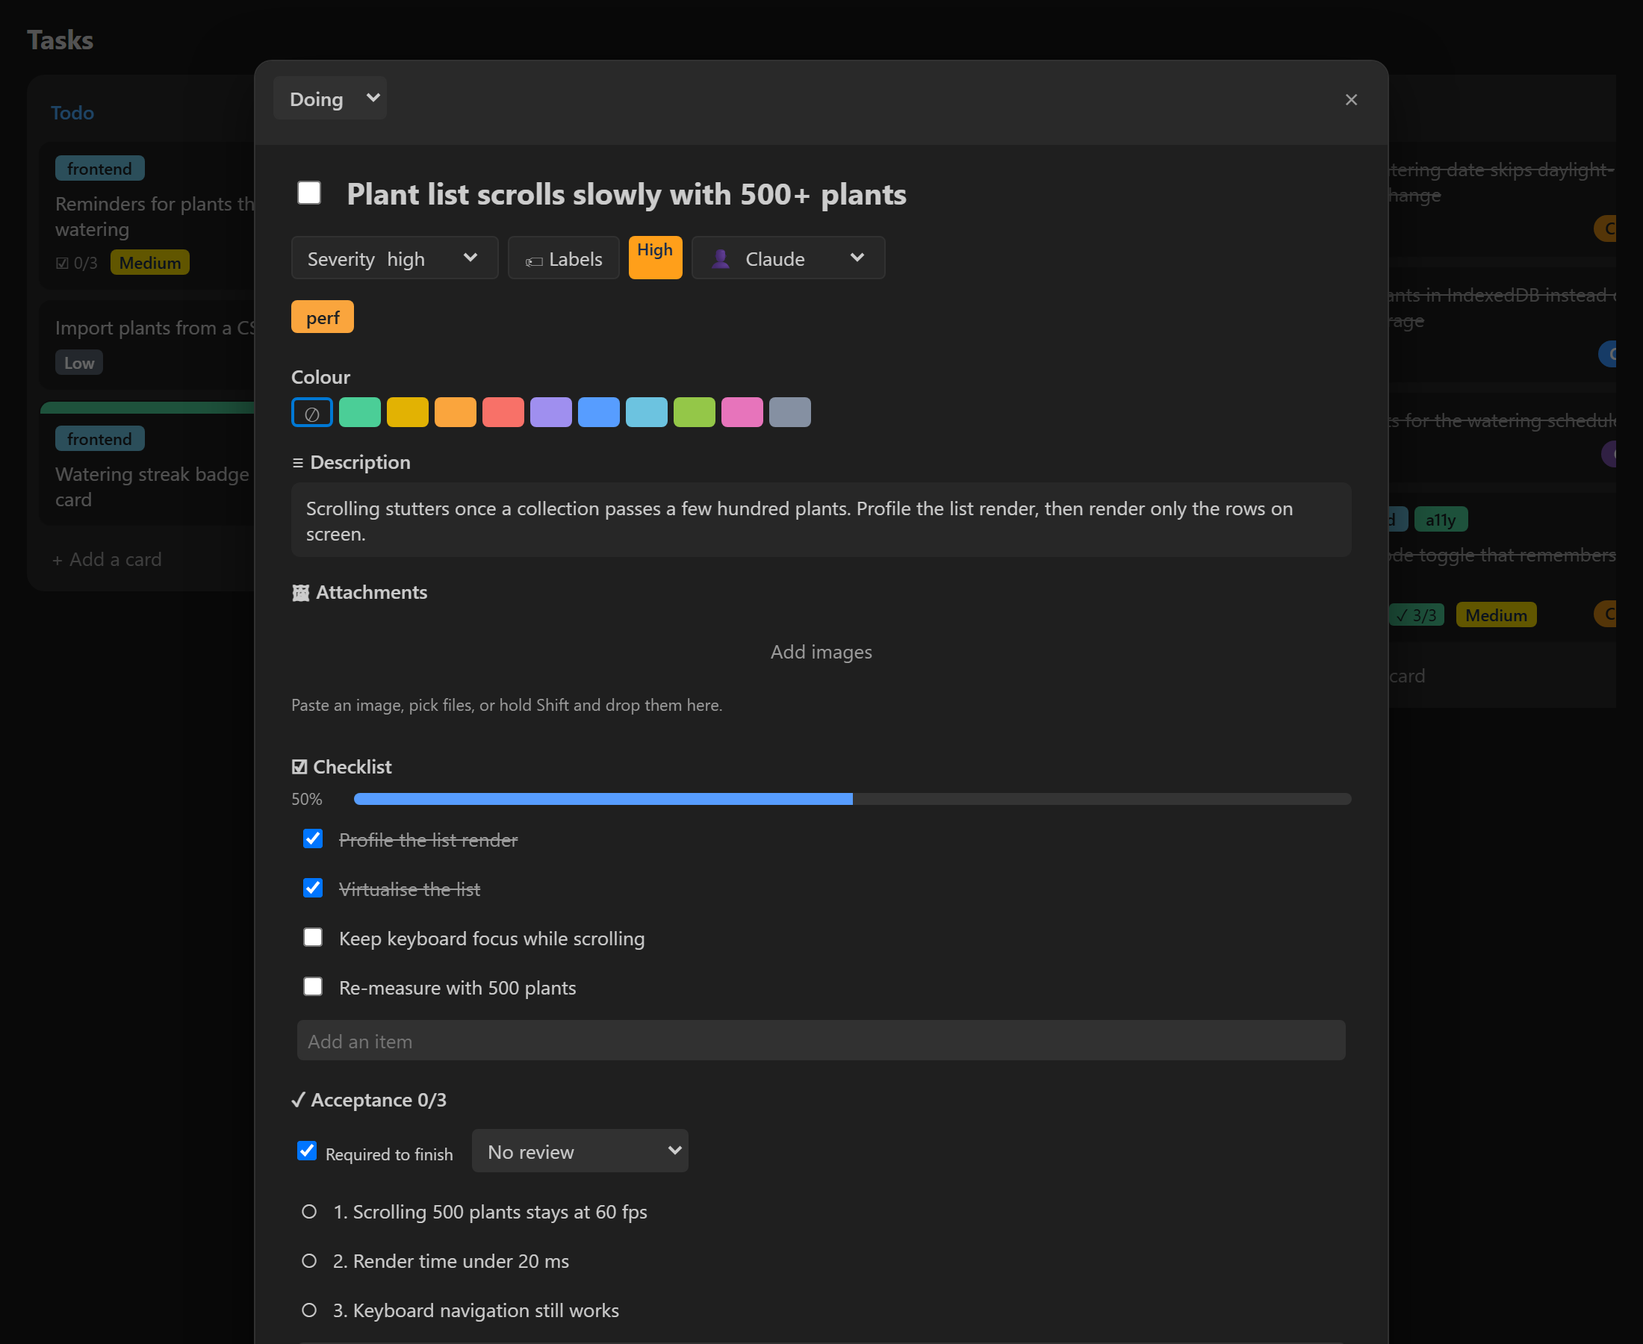
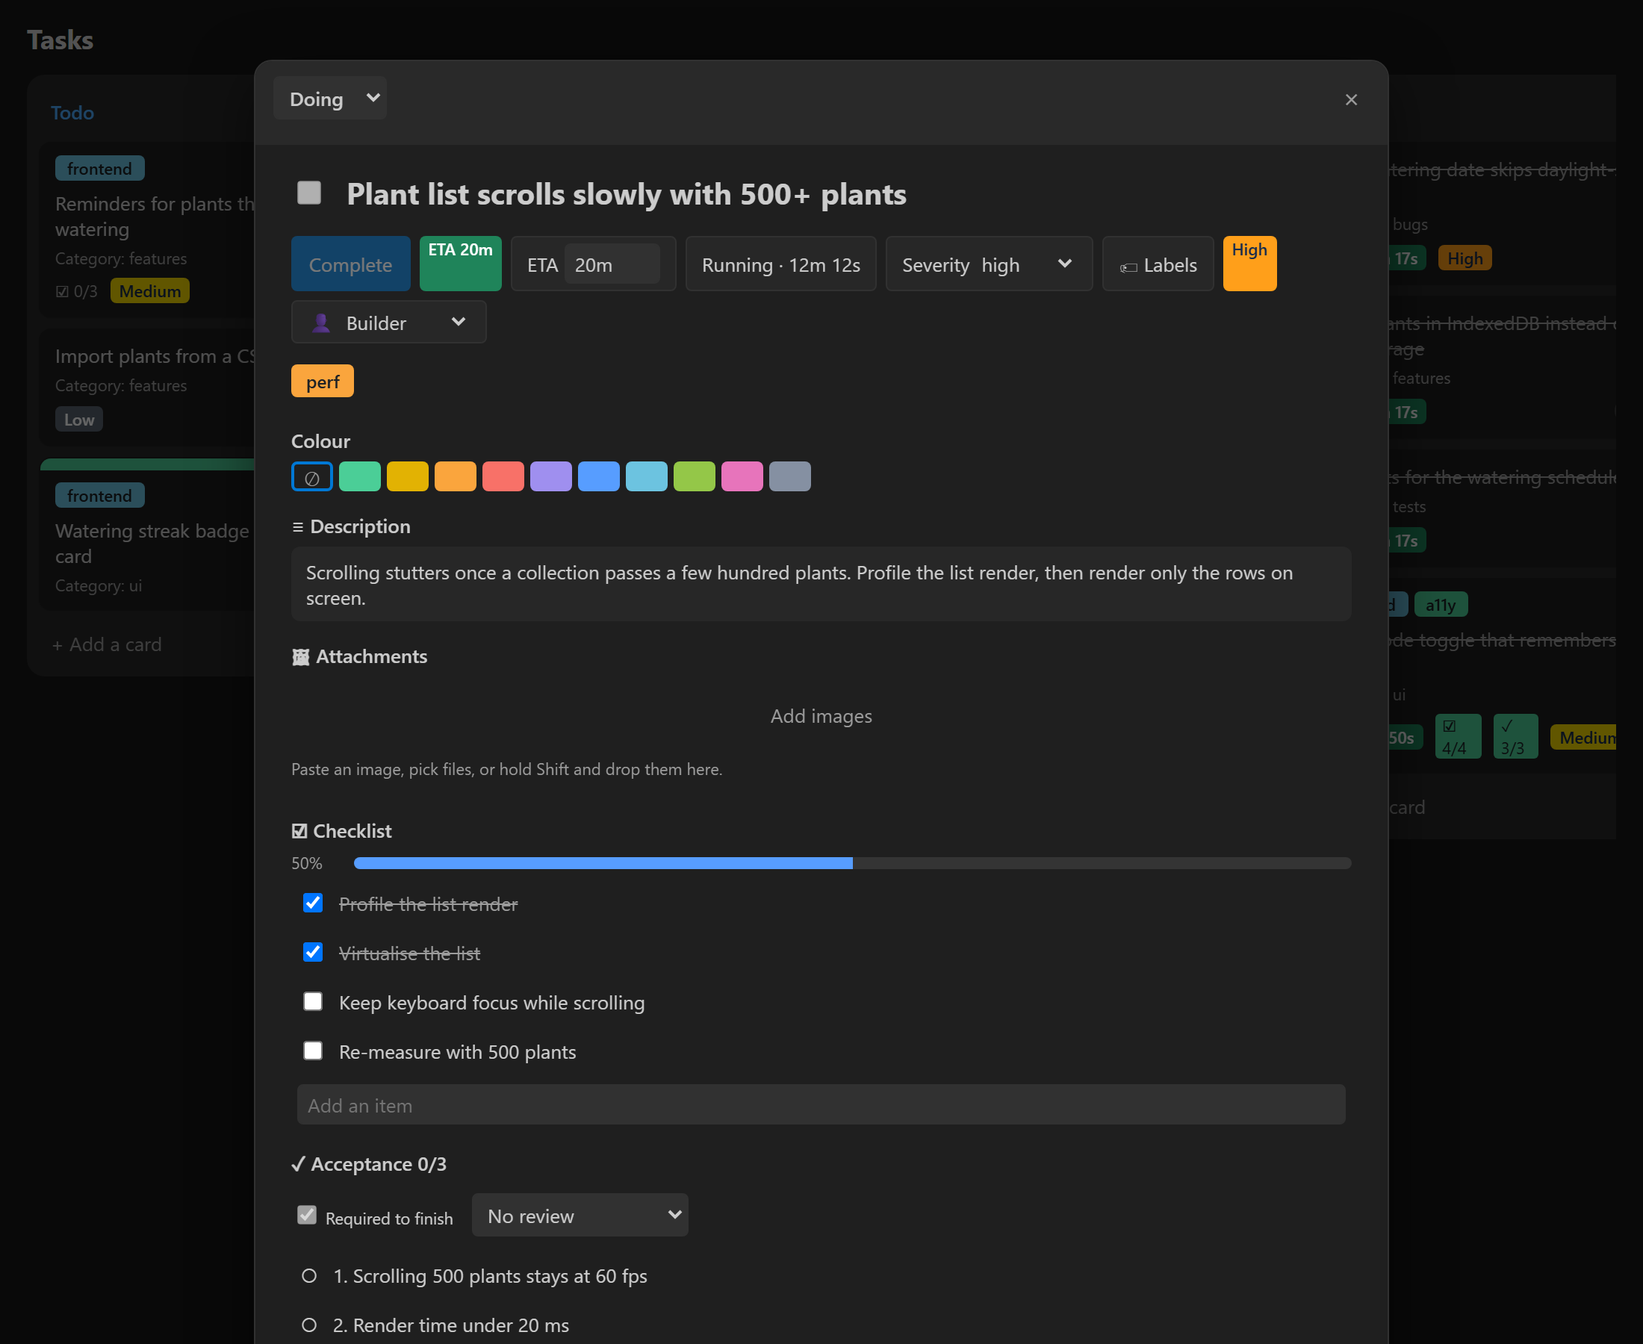
Refresh product guide and screenshots for Pandora 0.21.1

diff --git a/README.md b/README.md
@@ -1,168 +1,221 @@
 <p align="center">
-  <img src="docs/images/hero.svg" alt="Pandora coordinates Agent A and Agent B, whose work joins into one output." width="1280">
+  <img src="docs/images/hero.svg" alt="Pandora workflow: input branches to two agents and their work joins into one output." width="1280">
 </p>
 
 # Pandora
 
-**Run Claude Code and Codex together in VS Code.**
+**Run coding agents in VS Code with the engine and models you choose.**
 
-Pandora gives your coding agents a shared place to talk, organise work and keep project notes. You can ask one agent to write a feature and another to review it, follow their progress, and inspect the changes without passing context between separate chats.
+Pandora brings agent chats, tasks, workflows, project notes and documentation into one place. Work with one agent or add a team, follow their progress, inspect changes and keep shared context with your project.
 
-It uses the agent tools you're already signed in to. You don't need separate model API keys for this setup; your providers' usage limits and billing still apply.
+Codex or Claude alone is enough. Pandora uses the agent tools you're already signed in to, without separate model API keys for this setup. Your providers' usage limits and billing still apply.
 
-> **In development · Not publicly available yet.** This repository is a preview of Pandora. The setup instructions below are for testers who already have a build.
+> **In development · Not publicly available yet.** This repository previews Pandora. The setup instructions below are for testers who already have a build.
 
-[Chat](#team-chat) · [Tasks](#tasks-and-code-review) · [Workflows](#workflows) · [Knowledge](#project-knowledge) · [Usage and controls](#usage-and-controls) · [Tester setup](#tester-setup) · [Feedback](#feedback)
+[Chat](#team-chat) · [Agents](#project-agents) · [Tasks](#tasks-and-code-review) · [Workflows](#workflows) · [Docs](#project-documentation) · [Knowledge](#project-knowledge) · [Usage](#usage-and-controls) · [Settings](#settings-and-updates) · [Tester setup](#tester-setup) · [Feedback](#feedback)
 
-[![Pandora's task board, showing task owners and work moving through Todo, Doing, Review and Done.](docs/images/tasks.png)](docs/images/tasks.png)
+[![Pandora's task board, with named owners, categories and tasks in Todo, Doing, Review and Done.](docs/images/tasks.png)](docs/images/tasks.png)
 
 ## Team chat
 
-Talk to `@claude`, `@codex` or `@all` in the same conversation. Messages without a mention go to Pandora, the coordinator. Agents can share updates and hand work to each other, while you follow along, answer questions or add a follow-up as they work.
+Messages go directly to the agent you select, which handles the work itself. New projects start with **Pandora**. Select another project agent, mention it by name or use `@all` to address the active team. Coordination between agents is available when you run a workflow.
 
 ```text
-@all add a dark mode toggle, then review the changes and run the tests
+Add a dark mode toggle, then run the tests.
 ```
 
-[![An expanded Pandora chat view with agent replies, a question with clickable answers and live test output.](docs/images/chat.png)](docs/images/chat.png)
+[![Pandora chat showing named agents, task links, clickable answers and live command output.](docs/images/chat.png)](docs/images/chat.png)
 
 <details>
 <summary><strong>Chat tools</strong></summary>
 
 - Keep separate conversations with their own agent sessions. Rename, archive or delete chats as needed.
-- Mention workspace files with autocomplete, open file links from replies, and attach files or images. Agents can send screenshots back.
-- Answer questions with clickable choices. Edit or delete messages you've sent, or send a follow-up during an active turn.
-- Choose each agent's model, effort level and access for each chat: **Read only**, **Edit** or **Shell**.
-- Expand a turn to see its steps, command output, duration and exit status. Open changed files as before/after diffs.
-- Undo a turn's changes, with a warning if a file has changed again. Inspect logs and retry failed turns.
-- Collapse long exchanges between agents while keeping questions and final results visible.
+- Type `@@` for workspace file autocomplete. Use `@` for project agents, task groups and enabled plugin shortcuts.
+- Open file links from replies and attach files, images or pasted text. Agents can send screenshots back.
+- Answer questions with clickable choices, edit or delete messages you've sent, and add follow-ups during active work.
+- Choose models and effort levels, and set each agent's access for the current chat.
+- Expand a turn to see steps, commands, output, duration, exit status and changed-file diffs.
+- Open the sub-agent menu to see each helper's task, state, activity and result.
+- Inspect logs, retry failed turns and undo recorded file changes when their snapshots can be verified.
+- Collapse long exchanges while keeping questions and results visible.
 
 [View an expanded turn](docs/images/turn.png) · [View the chat list](docs/images/chats.png)
 
 </details>
 
+## Project agents
+
+Open **Work** to manage the agents in this project. **+** adds an agent with its own name, icon, engine and model. Several agents can use the same engine while keeping separate identities, chats, settings and task assignments.
+
+Pandora stays in every project: its name is fixed and it cannot be retired. Its **Edit** control provides one model dropdown with Codex and Claude choices. Custom agents have full editing controls and can be retired or restored. Retirement preserves their history and unfinished assignments.
+
+[![The Work page with project agents, their engines and models, pause controls and the add-agent button.](docs/images/work.png)](docs/images/work.png)
+
+<details>
+<summary><strong>Agent controls</strong></summary>
+
+- Pause new turns, resume queued work or stop an agent.
+- Stop cancels current and queued work and clears saved sessions. A manually paused agent stays paused.
+- Set per-chat access from each agent's access dropdown. A change during a turn applies from the next turn.
+- Inspect claimed files, coordination health and plugin status.
+- Use one supported engine throughout the project, including new default workflows.
+
+</details>
+
 ## Tasks and code review
 
-Open **Tasks** beside **Chats** and **Work** to use the full task board. Give work a clear brief, an owner and a checklist. Add dependencies and acceptance criteria so everyone can see what needs to happen before a task is done. Starting an assigned task sends the brief to its agent and moves the card to **Doing**.
+Open **Tasks** beside **Chats** and **Work** for the full task board. Give work a brief, an owner, a checklist, dependencies and acceptance criteria. Assignment alone does not start an agent. **Start** begins the timer and sends an assigned agent its brief.
 
-You can review changed files in VS Code, leave line comments for the agent and open a GitHub pull request from the task. Merging stays with you.
+Expanded cards show a live clock. TTC is calculated from recorded start and finish times, down to the second, and cannot be edited. ETA stays editable. Moving a task, handing it off or reloading keeps its timer running.
+
+Started tasks can complete only after their checklist is finished and every acceptance criterion has passing evidence. Review changed files in VS Code, leave line comments for the agent and open a GitHub pull request from the task. Merging stays with you.
+
+[![An expanded task with timing controls, a checklist, acceptance criteria and review tools.](docs/images/task.png)](docs/images/task.png)
 
 <details>
 <summary><strong>Task details and review tools</strong></summary>
 
-[![A Pandora task with a description, checklist, acceptance criteria and review tools.](docs/images/task.png)](docs/images/task.png)
-
 - Start with **Todo**, **Doing** and **Done**, or add columns such as **Review**. Reorder and recolour the board.
-- Add owners, categories, tags, severity, images, checklists and dependencies to cards.
-- Record passing evidence for acceptance criteria before an agent finishes a task.
-- Create a task from chat: `/task @codex write tests for the parser`.
+- Add owners, categories, tags, severity, images, checklists and dependencies.
+- Edit subtask titles and descriptions, with saved changes reflected on the board.
+- Create a task without starting it using `/task write tests for the parser`, or use `/task @pandora write tests for the parser` to hand it to an agent.
 - Use mentions such as `@Todo` or `@bugs` to reach agents working on a group of tasks.
 - Give a task its own Git branch, or use an optional worktree and port.
 - Include the task's criteria and checks when opening a pull request. Follow its status from the card.
-- Archive finished tasks so agents can still look up the work later.
+- Archive finished tasks so agents can look up the work later.
 
 </details>
 
 ## Workflows
 
-Open **Flows** from the panel title bar to see your workflows and recent runs. Save a process you use often as a workflow. Connect steps for planning, coding, review and testing, then choose the agent and role for each one. Work can run in parallel, join back together and pause when it needs your input.
+Open **More → Flows** to see workflows and recent runs, then open the editor to change a workflow. Connect steps for planning, implementation, review and testing. Choose a project agent and role for each step; branches can run in parallel, join together and pause for your input.
 
-[![The workflow editor showing Studio Session: a coordinator, three parallel coders, a continuity checker and a tester.](docs/images/editor.png)](docs/images/editor.png)
+New default workflows use the project's Pandora agent, so you can run them with one supported engine. Assign different project agents when you want separate roles or models.
+
+[![The workflow editor with connected planning, implementation, review and test steps and a step inspector.](docs/images/editor.png)](docs/images/editor.png)
 
 Five workflows are included:
 
 | Workflow | What it does |
 | --- | --- |
-| **Studio Session** | Plans a feature, splits implementation across agents, checks that the changes fit together and runs tests. |
+| **Studio Session** | Plans a feature, splits implementation into parallel work, checks that the changes fit together and runs tests. |
 | **Bug Fix** | Reproduces a problem, fixes the cause and checks the result. |
 | **Optimize** | Measures a baseline, makes changes and measures again. |
-| **Council** | Brings several models into a discussion and checks decisions with you. |
+| **Council** | Uses discussion and review roles to develop a plan and check decisions with you. |
 | **Update Knowledge** | Creates or refreshes the project's shared notes. |
 
 <details>
 <summary><strong>Workflow editor and controls</strong></summary>
 
-- Drag steps into place and connect their outcomes. A **Join** step waits for parallel branches to finish.
-- Set the agent, role, model, effort level and permissions for each step.
-- Delegate a focused job to a helper model.
-- Limit steps, loops and concurrent turns. Token budgets are optional.
-- Start a workflow from the editor, the **Flows** title-bar button or chat: `/run studio add OAuth login`.
+- Drag steps into place and connect their outcomes. A **Join** step waits for parallel branches.
+- Set the project agent, role, model, effort level and permissions for each step.
+- Delegate a focused job to a helper.
+- Limit steps, loops and concurrent turns, with optional token budgets.
+- Start a workflow from the editor or chat: `/run studio add OAuth login`.
 
 [View workflows and recent runs](docs/images/flows.png)
 
 </details>
 
+## Project documentation
+
+Open **More → Docs** to browse project guides and references. Search or navigate nested pages, follow source links, use the page outline and copy syntax-highlighted code.
+
+When you ask an agent to add or maintain documentation, it proposes a draft. Review the changes and accept that exact revision to publish it. Published pages remain available while drafts change.
+
+[![Project documentation with Drafts and Published navigation, a page reader and highlighted code.](docs/images/docs.png)](docs/images/docs.png)
+
+<details>
+<summary><strong>Documentation tools</strong></summary>
+
+- See pending drafts and their count as they arrive.
+- Edit drafts, check source references and links, inspect history, and archive or restore pages.
+- Keep draft review separate from the published version.
+- Open documentation with `/docs`, or request work with `/docs @pandora document the storage module`.
+- Keep human-facing documentation separate from the agents' project knowledge.
+
+</details>
+
 ## Project knowledge
 
-Decisions and findings shouldn't disappear into an old chat. Pandora keeps shared notes in `.pandora/knowledge`, where agents can find what has already been agreed, read the relevant context and update it as the project changes.
+Pandora keeps shared decisions, plans and findings in `.pandora/knowledge`. Agents can search what has already been agreed, read the relevant context and update existing notes as the project changes.
 
-The notes are Markdown files you can read, edit and commit with your code. The graph lets you browse their connections and the source files they refer to.
+Open **More → Knowledge** for a searchable, grouped overview. Select a note to see its direct connections or read it in the sidebar. The notes are Markdown files you can edit and commit with your code.
 
-[![Pandora's knowledge graph linking a project overview, plans, architectural notes and findings.](docs/images/graph.png)](docs/images/graph.png)
+[![The Knowledge view with project notes grouped by type, search and referenced-code controls.](docs/images/graph.png)](docs/images/graph.png)
 
 <details>
 <summary><strong>Working with project notes</strong></summary>
 
 - Keep decisions, plans, findings and how-tos together across conversations.
 - Give agents a compact index and tools to find, read and update existing notes.
-- Use coordination rules and edit hooks to keep new documentation in the shared knowledge folder.
-- Search the graph, filter by note type, show referenced code files and open notes to read them.
+- Search notes, filter their types and inspect referenced source files.
+- Follow direct connections from a selected note, with navigation and scroll preserved.
 - Commit the notes so they stay with the project.
 
 </details>
 
 ## Usage and controls
 
-The stats view shows where time and tokens are going. Compare agents, roles, models and effort levels, or look at individual runs to find slow commands and failed work.
+Open **More → Stats** to compare time and token use across agents, roles, models and effort levels. Inspect individual runs, slow commands and failed work.
 
-The **Work** tab shows who's active and which files they've claimed. You can pause, resume or stop agents there, or stop an active turn directly from chat.
+Plugin statistics show calls, measured duration, outcomes and linked-turn token totals by plugin, action and agent. Manual and polling activity is identified separately.
 
-[![Pandora's stats dashboard showing token trends, agent time, role efficiency, commands and recent runs.](docs/images/stats.png)](docs/images/stats.png)
+[![The Stats view with token trends, agent and role comparisons, command timings, runs and plugin activity.](docs/images/stats.png)](docs/images/stats.png)
 
 <details>
 <summary><strong>Usage tracking and budgets</strong></summary>
 
 - Track turns, fresh and cached input, output tokens and elapsed time.
-- Compare success rates and average token use by agent, role, model and effort level.
-- Separate command time, model time and other work. Inspect slow commands and recent runs.
+- Compare success rates and average usage by agent, role, model and effort level.
+- Separate command time, model time and other work.
 - Set optional token budgets for tasks and workflows.
 
-Missing usage is shown as **unknown**. An active turn can exceed its token budget before further work pauses, so budgets aren't hard spending caps. Token totals describe usage, not a dollar invoice.
+Missing usage is shown as **unknown**. An active turn can exceed its token budget before further work pauses, so budgets are not hard spending caps. Token totals describe usage, not a dollar invoice.
 
 </details>
 
 <details>
 <summary><strong>Coordination, permissions and recovery</strong></summary>
 
-Pandora runs the agent CLIs in your workspace and gives them shared messages, tasks, file claims and notes. Claims and edit guards help agents avoid conflicting changes; build locks prevent overlapping builds in the same build tree.
+Pandora runs agent CLIs in your workspace with shared messages, tasks, file claims and notes. Claims and edit guards help agents avoid conflicting changes; build locks prevent overlapping builds in the same build tree.
 
-- **Permissions:** choose access per chat. Codex uses its workspace sandbox; Claude uses a configured tool allowlist.
-- **Run controls:** pause, resume or stop agents. Loop guards pause repeated exchanges between agents, and timeouts limit stalled work.
+- **Permissions:** choose access per chat. Codex uses its configured sandbox; Claude uses a configured tool allowlist.
+- **Run controls:** pause, resume or stop agents. Loop guards pause repeated exchanges, and timeouts limit stalled work.
 - **Health checks:** inspect hooks, commands, the runner, waiting messages and locks on demand. Repairs run only when you choose them.
-- **Recovery:** the board is backed up daily. Export and restore are also available.
-- **Project files:** `.pandora/` holds shared configuration and knowledge. Chats, tasks and runtime state are stored separately from your source files.
-
-[![The Work tab showing agent status, tasks, health checks and claimed files.](docs/images/work.png)](docs/images/work.png)
+- **Plugins:** review tools and access before enabling a plugin. Changed packages need fresh approval; licence acceptance stays with the user.
+- **Recovery:** automatic daily backups, export and restore keep the board recoverable.
+- **Project files:** `.pandora/` holds shared configuration, notes and documentation. Chats, tasks and runtime state are stored separately from source files.
 
 </details>
 
+## Settings and updates
+
+Open **Pandora Settings** from the panel title bar. Search settings, choose User, Workspace or Folder scope, inspect inherited values and overrides, and reset individual settings.
+
+[![Pandora Settings with searchable engine and plugin options, scope selection and reset controls.](docs/images/settings.png)](docs/images/settings.png)
+
+**What's New** opens once for each installed version and lists additions, changes and fixes. Reopen it at any time with **Pandora: What’s New** in the Command Palette.
+
+[![The What's New page with versioned Added, Changed and Fixed lists.](docs/images/changelog.png)](docs/images/changelog.png)
+
 ## Tester setup
 
-You'll need a test build supplied to you; Pandora isn't publicly available yet.
+You'll need a test build supplied to you; Pandora is not publicly available yet.
 
-**Currently supported:** Claude Code and Codex. More agents are planned.
+**Currently supported engines:** Codex and Claude Code. You only need one; more engines are planned.
 
-**Requirements:** VS Code, signed-in Claude Code and Codex tools, Node.js **22.13+**, and Git. Install the GitHub CLI (`gh`) if you want to open pull requests from tasks.
+**Requirements:** VS Code, one supported agent tool installed and signed in, Node.js **22.13+**, and Git. Install the GitHub CLI (`gh`) if you want to open pull requests from tasks.
 
 1. **Unzip your test build.** Use the package provided to you for testing.
 2. **Install the extension.** Run `install.cmd` on Windows or `sh install.sh` on macOS/Linux, then reload VS Code.
-3. **Set up your project.** Open Pandora from the activity bar and choose **Set up workspace**. Apply the Codex configuration snippet if one is shown.
-4. **Enable the hooks.** Start a Codex chat once and approve Pandora's hooks when prompted.
+3. **Set up your project.** Open Pandora from the activity bar, choose **Set up workspace** and select the engine you use.
+4. **Complete the selected engine's setup.** If you choose Codex, apply the configuration snippet if shown, start a Codex chat once and approve Pandora's hooks when prompted. Claude-only setup does not require Codex.
 
 A first message can be as simple as:
 
 ```text
-@claude explain how this project is organised
+Explain how this project is organised.
 ```
 
 When you're ready to try a workflow, use `/run studio <your feature>`.
